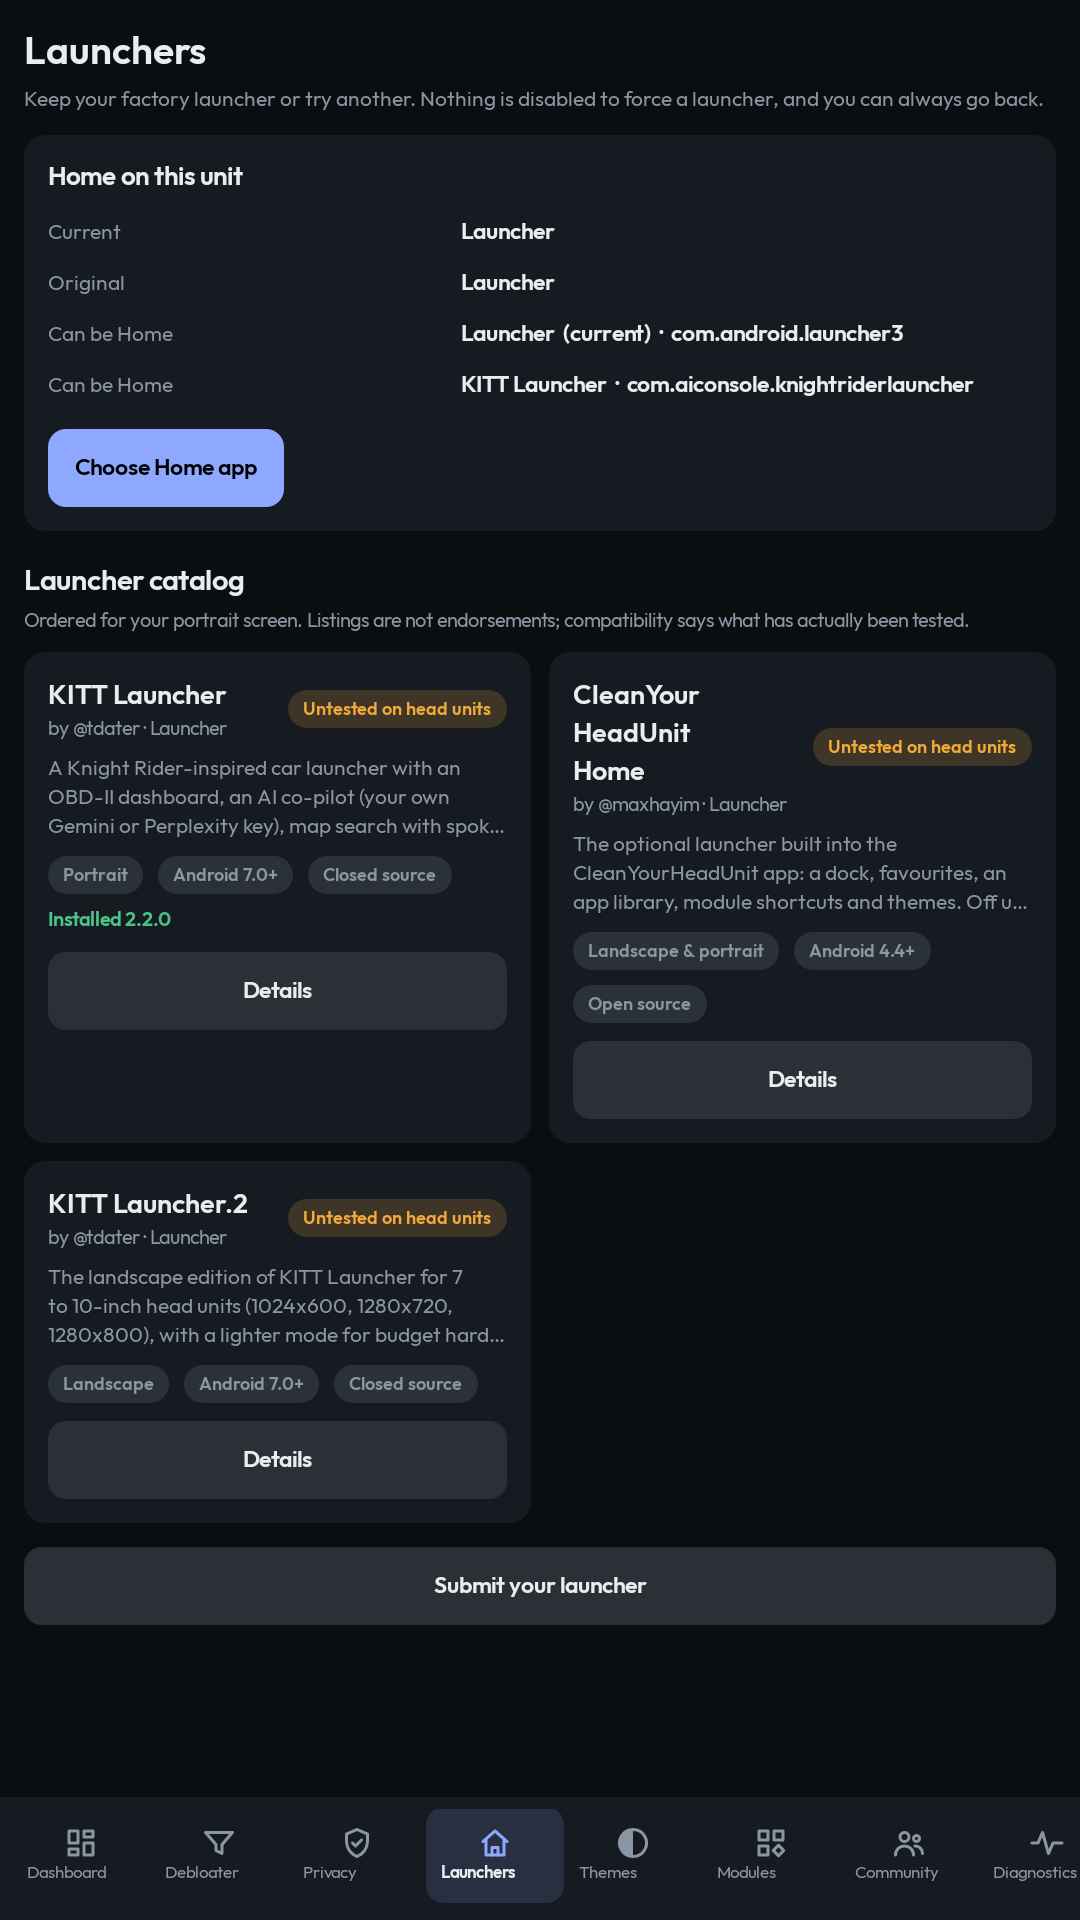
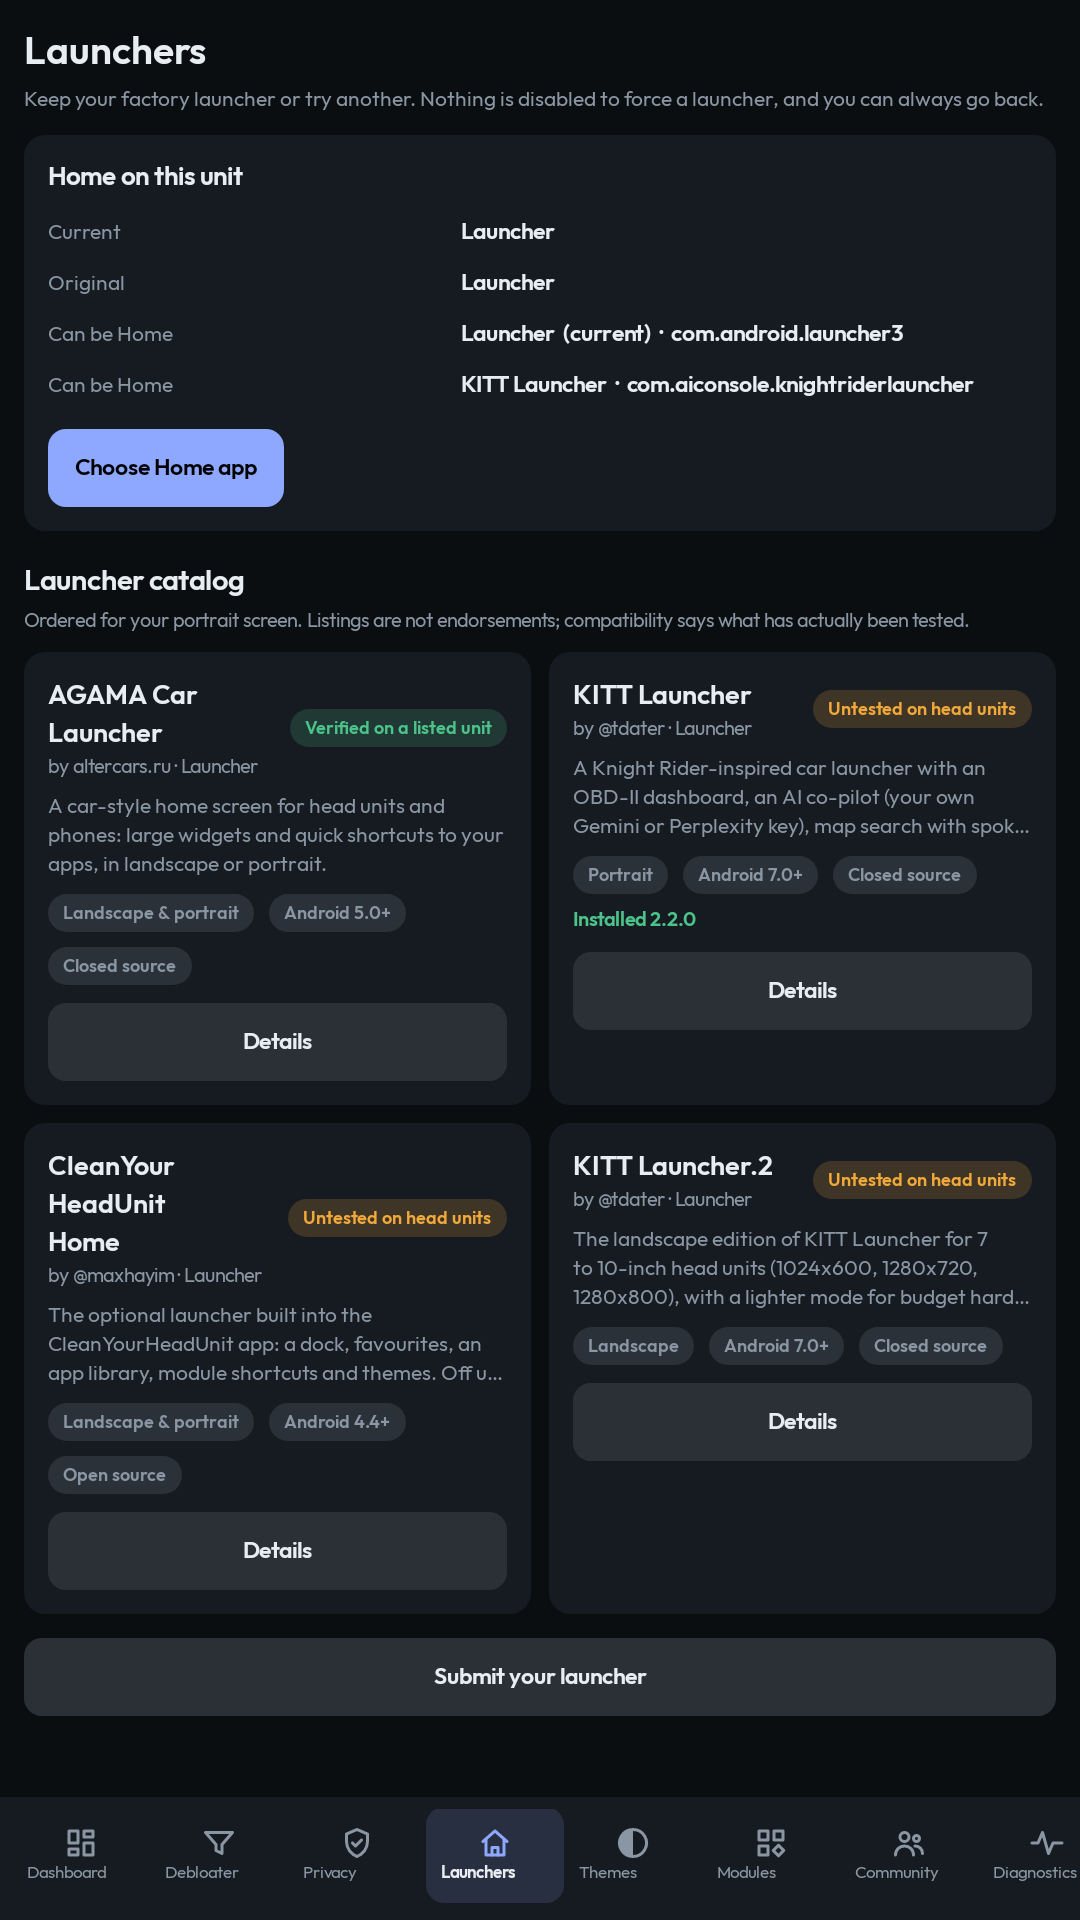
AGAMA Car Launcher: catalog launcher and recommended app
altergames.carlauncher, by altercars.ru (as listed on Google Play; no GitHub). Closed source,
so the listing links to Google Play only. Verified as the daily launcher on the Camry unit.

diff --git a/tests/test_cyhu.py b/tests/test_cyhu.py
@@ -326,7 +326,7 @@ class TestCatalog(unittest.TestCase):
 
     def test_recommended_apps(self):
         rec = [r["id"] for r in data.catalog()["recommended"]]
-        self.assertEqual(rec, ["retrodeck", "webmote", "localsend"])
+        self.assertEqual(rec, ["retrodeck", "webmote", "localsend", "agama-car-launcher"])
         ls = catalog.item("localsend")
         self.assertEqual(ls["install"], "none")          # one APK per processor: links only
         self.assertEqual(ls["package"], "org.localsend.localsend_app")

diff --git a/MODULES.md b/MODULES.md
@@ -11,9 +11,10 @@ Modules are independent apps that work well on head units. Each is its own proje
 | [KITT Launcher](https://github.com/tdater/KITT-Launcher-releases) | launcher, portrait | [@tdater](https://github.com/tdater) | GitHub releases, closed source (all rights reserved) | untested on head units |
 | [KITT Launcher.2](https://github.com/tdater/KITT-Launcher.2-releases) | launcher, landscape | [@tdater](https://github.com/tdater) | GitHub releases, closed source (all rights reserved) | untested on head units |
 | [LocalSend](https://localsend.org) | module (recommended) | [@localsend](https://github.com/localsend) | [Google Play](https://play.google.com/store/apps/details?id=org.localsend.localsend_app), [F-Droid](https://f-droid.org/packages/org.localsend.localsend_app), [GitHub releases](https://github.com/localsend/localsend/releases/latest), Apache-2.0 | **works on one real unit** (2012–2014 Camry, FYT, Android 8.1: received and installed an APK). Links only: the release has one APK per processor type, so no install is offered |
+| [AGAMA Car Launcher](https://play.google.com/store/apps/details?id=altergames.carlauncher) | launcher (recommended) | altercars.ru (no GitHub) | Google Play, closed source | **works on one real unit** (the Camry's daily launcher). Links only |
 | CleanYourHeadUnit Home | launcher | [@maxhayim](https://github.com/maxhayim) | built into the app | untested on head units |
 
-**Recommended apps:** RetroDeck, Webmote and LocalSend, in that order. The list is `recommended` in `data/catalog.json`, each with a one-line reason; `catalog validate` checks that every entry exists and has a reason.
+**Recommended apps:** RetroDeck, Webmote, LocalSend and AGAMA Car Launcher, in that order. The list is `recommended` in `data/catalog.json`, each with a one-line reason; `catalog validate` checks that every entry exists and has a reason.
 
 KITT Launcher and KITT Launcher.2 are proprietary. CleanYourHeadUnit links to and downloads from @tdater's official release repositories only, and is not affiliated with or endorsed by @tdater.
 

diff --git a/README.md b/README.md
@@ -172,6 +172,7 @@ com.adups.fota  [advanced]
   <tr><th>App</th><th>Developer</th><th>Why</th><th>Get it</th></tr>
   <tr><td><a href="https://github.com/maxhayim/RetroDeck">RetroDeck</a></td><td><a href="https://github.com/maxhayim">@maxhayim</a></td><td>Turns the screen into a classic car stereo, with every hardware and steering-wheel key mappable.</td><td>Download and install in the app (signature-checked), or <a href="https://github.com/maxhayim/RetroDeck/releases/latest">GitHub releases</a></td></tr>
   <tr><td><a href="https://github.com/maxhayim/webmote">Webmote</a></td><td><a href="https://github.com/maxhayim">@maxhayim</a></td><td>Control the unit from your phone's browser. Built for Android TV today; automotive support is planned.</td><td><a href="https://github.com/maxhayim/webmote/releases/latest">GitHub releases</a> (no install offered for head units yet)</td></tr>
+  <tr><td><a href="https://play.google.com/store/apps/details?id=altergames.carlauncher">AGAMA Car Launcher</a></td><td>altercars.ru (no GitHub)</td><td>A car-style home screen with big widgets and app shortcuts. The launcher on all the maintainer's cars, including the Camry test unit. Closed source.</td><td><a href="https://play.google.com/store/apps/details?id=altergames.carlauncher">Google Play</a></td></tr>
   <tr><td><a href="https://localsend.org">LocalSend</a></td><td><a href="https://github.com/localsend">@localsend</a></td><td>Send music, maps and APKs from a phone or computer to the head unit over Wi-Fi: no cable, account or internet, and transfers are encrypted. Needs Android 7.0+ (1.17.0 for Android 5 and 6).</td><td><a href="https://play.google.com/store/apps/details?id=org.localsend.localsend_app">Google Play</a>, <a href="https://f-droid.org/packages/org.localsend.localsend_app">F-Droid</a>, or <a href="https://github.com/localsend/localsend/releases/latest">GitHub releases</a> (pick the APK for the unit's processor)</td></tr>
 </table>
 

diff --git a/CHANGELOG.md b/CHANGELOG.md
@@ -26,6 +26,7 @@ First version of CleanYourHeadUnit, derived from CleanYourTV `f47c893d` by @Gath
 - Launchers show each Home app's package, since several often share one name, and label Android's start-up screen as not a launcher
 - The FYT profile is just "FYT firmware"; its chip list gains SC7731E / UIS8141E, seen on a real unit
 - LocalSend marked as working on a real unit: the Camry received an APK sent from a phone and installed it
+- AGAMA Car Launcher in the launcher catalog and Recommended apps (Google Play link only; closed source; works on the Camry)
 - Themes: Midnight, Amber Dash, Daylight, plus an accent colour you choose (ten presets or any #RRGGBB) that works with every theme
 - Tests: 47 Python tests, 21 Java tests for the head-unit app and 20 for the companion (including shared classification vectors and screen renders at five resolutions)
 - Docs: README, INSTALL, COMPATIBILITY, DEBLOAT, PRIVACY, MODULES, THEMES, COMMUNITY, CONTRIBUTING, SAFETY, RESTORE, CREDITS, SECURITY, plus the hardware checklist, test report, release readiness and specs

diff --git a/COMPATIBILITY.md b/COMPATIBILITY.md
@@ -40,6 +40,7 @@ The layout adapts between a side rail (landscape), an icon-only rail (under 900d
 | KITT Launcher.2 (landscape) | @tdater | untested on head units |
 | RetroDeck | @maxhayim | untested on head units (tested by its developer on an Android TV) |
 | Webmote | @maxhayim | automotive support planned |
+| AGAMA Car Launcher | altercars.ru | verified on one unit: the Camry's daily launcher (FYT, Android 8.1) |
 | LocalSend | @localsend | verified on one unit: the 2012–2014 Camry (FYT, Android 8.1) received and installed an APK sent from a phone |
 
 ## Real units
